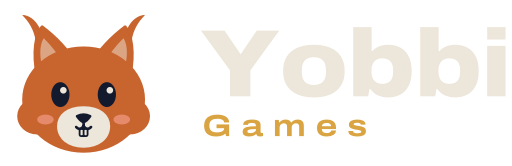
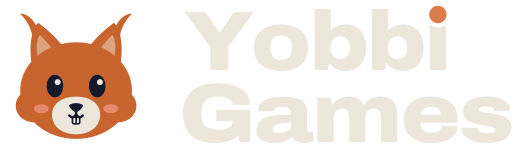
Header and share image: the new stacked wordmark
The header draws the brand kit's wordmark as an inline SVG (same height
as the squirrel) instead of CSS text; og.png and the lockup PNGs are the
rebuilt kit files.

diff --git a/_includes/wordmark.html b/_includes/wordmark.html
@@ -1,0 +1,3 @@
+{% comment %}The Yobbi Games wordmark, copied from marketing/brand/logo/wordmark-dark.svg (coordinates rounded).
+Height matches the squirrel include so the two text lines span its ink.{% endcomment %}
+<svg class="wordmark" viewBox="0 0 216.3 100" height="{{ include.size | default: 40 }}" width="{{ include.size | default: 40 | times: 2.1630 | round }}" aria-hidden="true" focusable="false"><path fill="#EDE6DA" d="M16.93 46.25V31.19L0 8.06H13.71L22.92 21.59H23.24L32.46 8.06H45.54L28.72 31.19V46.25Z"/><path fill="#EDE6DA" d="M63.75 46.92Q58.32 46.92 54.31 45.23Q50.29 43.54 48.08 40.13Q45.86 36.73 45.86 31.59Q45.86 26.42 48.08 23.03Q50.29 19.63 54.31 17.95Q58.32 16.28 63.75 16.28Q69.19 16.28 73.21 17.95Q77.23 19.63 79.45 23.03Q81.67 26.42 81.67 31.59Q81.67 36.73 79.45 40.13Q77.23 43.54 73.21 45.23Q69.19 46.92 63.75 46.92ZM63.75 39.7Q66.2 39.7 67.76 38.81Q69.32 37.93 70.05 36.32Q70.78 34.71 70.78 32.55V30.66Q70.78 28.49 70.05 26.88Q69.32 25.26 67.76 24.38Q66.2 23.5 63.75 23.5Q61.31 23.5 59.76 24.38Q58.21 25.26 57.48 26.88Q56.75 28.49 56.75 30.66V32.55Q56.75 34.71 57.48 36.32Q58.21 37.93 59.76 38.81Q61.31 39.7 63.75 39.7Z"/><path fill="#EDE6DA" d="M106.17 46.92Q103.11 46.92 100.42 45.76Q97.73 44.61 95.91 41.93H95.48L94.68 46.25H85.98V6H96.67V20.04H97.09Q98.16 18.74 99.65 17.91Q101.14 17.07 102.86 16.67Q104.58 16.28 106.27 16.28Q110.32 16.28 113.41 17.94Q116.5 19.6 118.24 22.98Q119.99 26.37 119.99 31.57Q119.99 36.79 118.24 40.19Q116.5 43.6 113.39 45.26Q110.28 46.92 106.17 46.92ZM102.91 39.03Q105.11 39.03 106.5 38.22Q107.89 37.41 108.54 35.93Q109.19 34.45 109.19 32.48V30.75Q109.19 28.77 108.54 27.3Q107.89 25.83 106.5 24.99Q105.12 24.16 102.92 24.16Q101.28 24.16 100.08 24.69Q98.88 25.23 98.11 26.16Q97.34 27.09 96.97 28.36Q96.6 29.63 96.6 31.12V32.12Q96.6 34.09 97.26 35.66Q97.92 37.24 99.32 38.13Q100.73 39.03 102.91 39.03Z"/><path fill="#EDE6DA" d="M144.16 46.92Q141.11 46.92 138.42 45.76Q135.73 44.61 133.91 41.93H133.47L132.67 46.25H123.97V6H134.66V20.04H135.08Q136.15 18.74 137.64 17.91Q139.13 17.07 140.85 16.67Q142.57 16.28 144.26 16.28Q148.31 16.28 151.4 17.94Q154.49 19.6 156.23 22.98Q157.98 26.37 157.98 31.57Q157.98 36.79 156.23 40.19Q154.49 43.6 151.38 45.26Q148.28 46.92 144.16 46.92ZM140.9 39.03Q143.1 39.03 144.49 38.22Q145.88 37.41 146.53 35.93Q147.18 34.45 147.18 32.48V30.75Q147.18 28.77 146.53 27.3Q145.88 25.83 144.5 24.99Q143.11 24.16 140.91 24.16Q139.28 24.16 138.08 24.69Q136.88 25.23 136.11 26.16Q135.33 27.09 134.96 28.36Q134.59 29.63 134.59 31.12V32.12Q134.59 34.09 135.25 35.66Q135.91 37.24 137.32 38.13Q138.72 39.03 140.9 39.03Z"/><path fill="#EDE6DA" d="M162.28 46.25 V16.32 A8.57 8.57 0 0 0 172.96 16.32 V46.25 Z"/><circle fill="#D97E4B" cx="167.62" cy="9.61" r="5.77"/><path fill="#EDE6DA" d="M19.9 94.67Q9.45 94.67 4.17 89.75Q-1.11 84.83 -1.11 74.91Q-1.11 68.34 1.61 63.95Q4.33 59.56 9.49 57.35Q14.65 55.14 21.93 55.14Q26.33 55.14 30.18 56.04Q34.03 56.94 36.96 58.72Q39.89 60.51 41.52 63.21Q43.16 65.9 43.16 69.5H31.73Q31.73 68.14 30.99 67.07Q30.24 66 28.94 65.28Q27.64 64.56 25.96 64.2Q24.28 63.83 22.42 63.83Q19.62 63.83 17.47 64.47Q15.32 65.12 13.88 66.4Q12.43 67.69 11.7 69.54Q10.97 71.38 10.97 73.8V76Q10.97 79.34 12.2 81.56Q13.43 83.77 15.87 84.87Q18.32 85.97 21.91 85.97Q24.7 85.97 26.93 85.33Q29.15 84.69 30.45 83.44Q31.74 82.19 31.74 80.49V80.22H20.83V72.78H43.19V94H36.58L35.47 89.87Q33.53 91.46 31.18 92.54Q28.83 93.62 26.03 94.14Q23.23 94.67 19.9 94.67Z"/><path fill="#EDE6DA" d="M59.08 94.67Q56.69 94.67 54.59 94.27Q52.49 93.88 50.91 92.92Q49.32 91.97 48.43 90.33Q47.55 88.69 47.55 86.2Q47.55 82.84 49.15 80.81Q50.76 78.78 53.76 77.74Q56.76 76.71 60.94 76.36Q65.12 76.01 70.31 76.01V74.78Q70.31 73.38 69.64 72.5Q68.97 71.62 67.73 71.18Q66.5 70.75 64.7 70.75Q63.37 70.75 62.09 71.01Q60.81 71.27 60 71.84Q59.18 72.42 59.18 73.42V73.75H48.5Q48.45 73.52 48.44 73.35Q48.44 73.17 48.44 72.92Q48.44 70.28 50.34 68.28Q52.24 66.27 55.94 65.15Q59.64 64.03 65.02 64.03Q69.84 64.03 73.43 64.98Q77.02 65.93 79.01 68.03Q81 70.13 81 73.64V85.31Q81 86.23 81.46 86.84Q81.92 87.45 82.8 87.45H85.26V93.6Q84.5 93.95 82.89 94.31Q81.28 94.66 79.29 94.66Q76.85 94.66 75.2 94.16Q73.54 93.67 72.61 92.78Q71.67 91.9 71.28 90.78H70.87Q69.53 91.93 67.79 92.82Q66.05 93.7 63.9 94.19Q61.75 94.67 59.08 94.67ZM62.72 88Q63.84 88 65.14 87.7Q66.44 87.41 67.63 86.82Q68.81 86.24 69.56 85.35Q70.31 84.47 70.31 83.27V81.27Q66.16 81.27 63.47 81.74Q60.78 82.2 59.49 83.08Q58.19 83.96 58.19 85.27Q58.19 86.36 58.83 86.95Q59.48 87.55 60.52 87.77Q61.56 88 62.72 88Z"/><path fill="#EDE6DA" d="M87.84 94V64.69H96.57L97.29 69.23H97.73Q98.98 67.45 100.68 66.29Q102.39 65.14 104.41 64.58Q106.42 64.03 108.5 64.03Q112.16 64.03 114.61 65.34Q117.07 66.65 118.29 69.23H118.76Q120 67.45 121.71 66.29Q123.42 65.14 125.43 64.58Q127.44 64.03 129.51 64.03Q133.19 64.03 135.65 65.33Q138.11 66.63 139.35 69.2Q140.59 71.77 140.59 75.59V94H129.9V76.99Q129.9 75.8 129.61 74.85Q129.31 73.91 128.74 73.26Q128.16 72.62 127.29 72.27Q126.42 71.92 125.33 71.92Q123.67 71.92 122.35 72.69Q121.04 73.46 120.3 74.78Q119.56 76.1 119.56 77.79V94H108.88V76.99Q108.88 75.8 108.58 74.85Q108.29 73.91 107.71 73.26Q107.14 72.62 106.27 72.27Q105.4 71.92 104.3 71.92Q102.63 71.92 101.33 72.69Q100.02 73.46 99.28 74.78Q98.53 76.1 98.53 77.79V94Z"/><path fill="#EDE6DA" d="M163.41 94.67Q157.79 94.67 153.66 93.04Q149.54 91.41 147.3 88.01Q145.06 84.61 145.06 79.35Q145.06 74.18 147.27 70.78Q149.48 67.38 153.49 65.7Q157.49 64.03 162.9 64.03Q168.51 64.03 172.47 65.65Q176.44 67.28 178.53 70.64Q180.63 74 180.63 79.22V81.29H156.01Q156.09 83.48 156.9 84.97Q157.71 86.47 159.34 87.2Q160.96 87.94 163.39 87.94Q164.89 87.94 166.09 87.61Q167.28 87.28 168.12 86.69Q168.96 86.1 169.41 85.29Q169.85 84.49 169.87 83.53H180.58Q180.58 86.18 179.36 88.26Q178.13 90.34 175.86 91.76Q173.58 93.19 170.42 93.93Q167.26 94.67 163.41 94.67ZM156.07 75.97H169.48Q169.48 74.76 169.05 73.8Q168.62 72.85 167.81 72.16Q167 71.48 165.86 71.12Q164.71 70.76 163.3 70.76Q161.09 70.76 159.57 71.4Q158.05 72.05 157.19 73.21Q156.33 74.38 156.07 75.97Z"/><path fill="#EDE6DA" d="M199.84 94.67Q196.8 94.67 193.91 94.12Q191.03 93.57 188.69 92.45Q186.35 91.33 184.96 89.59Q183.57 87.85 183.57 85.41Q183.57 85.22 183.58 85.02Q183.58 84.82 183.63 84.61H194.16Q194.11 84.78 194.11 84.93Q194.11 85.08 194.11 85.19Q194.16 86.27 194.95 86.96Q195.74 87.66 197.04 87.99Q198.34 88.32 199.88 88.32Q201.01 88.32 202.39 88.17Q203.77 88.03 204.77 87.52Q205.78 87.02 205.78 85.92Q205.78 84.82 204.45 84.32Q203.12 83.81 200.97 83.51Q198.81 83.2 196.28 82.81Q194.09 82.45 191.97 81.88Q189.86 81.31 188.14 80.32Q186.42 79.33 185.38 77.74Q184.35 76.14 184.35 73.72Q184.35 70.97 185.61 69.1Q186.88 67.24 189.09 66.11Q191.3 64.99 194.17 64.5Q197.04 64.01 200.25 64.01Q203.07 64.01 205.76 64.49Q208.46 64.97 210.63 65.99Q212.81 67.01 214.1 68.62Q215.38 70.23 215.38 72.48Q215.38 72.68 215.38 72.94Q215.37 73.2 215.32 73.32H204.89V72.9Q204.89 72.04 204.19 71.49Q203.5 70.93 202.4 70.65Q201.31 70.37 200.08 70.37Q199.53 70.37 198.64 70.42Q197.75 70.48 196.87 70.68Q196 70.88 195.41 71.3Q194.82 71.71 194.82 72.45Q194.82 73.31 195.83 73.75Q196.84 74.19 198.52 74.44Q200.19 74.69 202.17 74.98Q204.52 75.33 206.99 75.77Q209.47 76.22 211.57 77.15Q213.67 78.09 214.97 79.82Q216.26 81.55 216.26 84.48Q216.26 87.39 214.97 89.38Q213.68 91.36 211.42 92.51Q209.16 93.67 206.18 94.17Q203.19 94.67 199.84 94.67Z"/></svg>

diff --git a/assets/css/site.css b/assets/css/site.css
@@ -40,9 +40,7 @@ p { margin: 0; max-width: 62ch; }
 .site-header { background: var(--night); color: var(--paper); }
 .site-header .wrap { display: flex; align-items: center; justify-content: space-between; gap: 16px; padding-block: 14px; flex-wrap: wrap; }
 .brand { display: flex; align-items: center; gap: 12px; text-decoration: none; color: inherit; }
-.wordmark { display: grid; line-height: .9; font-family: var(--f-display); }
-.wordmark b { font-size: 24px; font-weight: 850; font-stretch: 112%; letter-spacing: -0.01em; color: var(--paper); }
-.wordmark small { font-size: 9px; font-weight: 700; font-stretch: 118%; letter-spacing: .32em; text-transform: uppercase; color: var(--brass); margin-top: 4px; padding-left: 2px; }
+.wordmark { display: block; height: 44px; width: auto; }
 .site-nav { display: flex; gap: 22px; }
 .site-nav a { font: 700 14px var(--f-display); font-stretch: 106%; color: var(--paper); text-decoration: none; opacity: .9; }
 .site-nav a:hover { opacity: 1; color: var(--brass); }

diff --git a/_includes/header.html b/_includes/header.html
@@ -2,7 +2,7 @@
   <div class="wrap">
     <a class="brand" href="/" aria-label="Yobbi Games home">
       {% include squirrel.html size=44 %}
-      <span class="wordmark"><b>Yobbi</b><small>Games</small></span>
+      {% include wordmark.html size=44 %}
     </a>
     <nav class="site-nav" aria-label="Main">
       <a href="/#games">Games</a>
